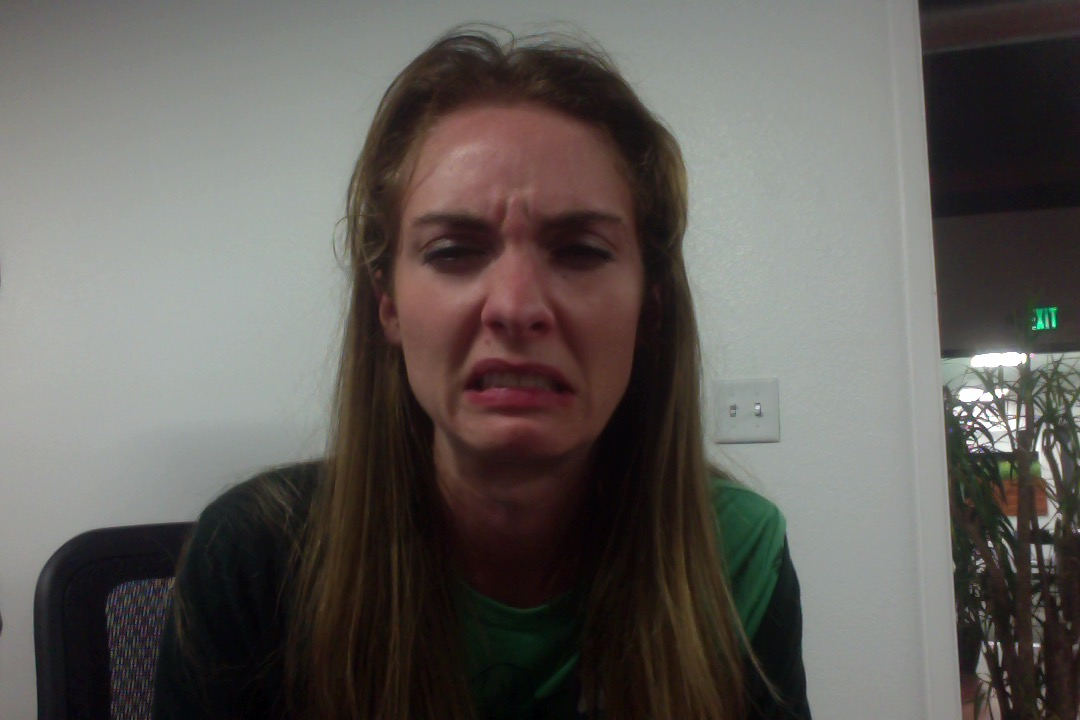
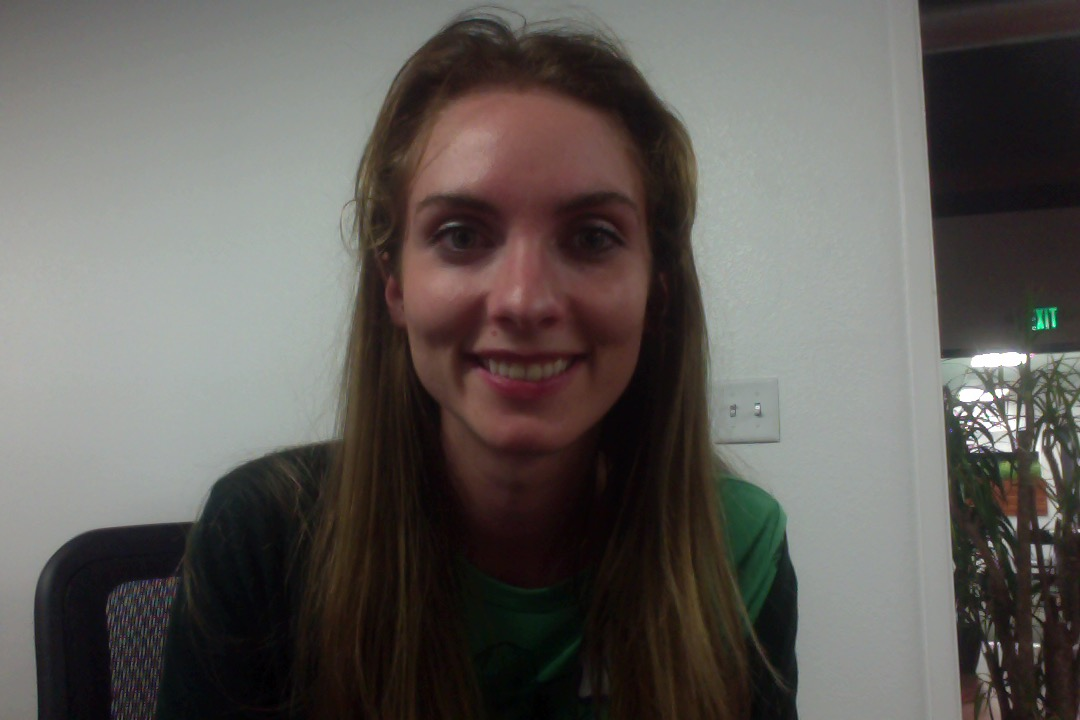
Working model

diff --git a/model/EmotionAPI.py b/model/EmotionAPI.py
@@ -1,0 +1,116 @@
+
+import time
+import requests
+import cv2
+import operator
+import numpy as np
+#import matplotlib.pyplot as plt
+from PIL import Image
+from scipy.misc import toimage
+from os.path import expanduser
+
+
+
+
+def processRequest(json, data, headers, params):
+    """
+    Helper function to process the request to Project Oxford
+
+    Parameters:
+    json: Used when processing images from its URL. See API Documentation
+    data: Used when processing image read from disk. See API Documentation
+    headers: Used to pass the key information and the data type request
+    """
+
+    _url = 'https://westus.api.cognitive.microsoft.com/emotion/v1.0/recognize'
+    _key = '9a2f9f6e4c694c72aa1bd6ea84ba5a87'
+    _maxNumRetries = 10
+
+    retries = 0
+    result = None
+
+    while True:
+
+        response = requests.request('post', _url, json=json, data=data, headers=headers, params=params)
+
+        if response.status_code == 429:
+
+            print("Message: %s" % (response.json()['error']['message']))
+
+            if retries <= _maxNumRetries:
+                time.sleep(1)
+                retries += 1
+                continue
+            else:
+                print('Error: failed after retrying!')
+                break
+
+        elif response.status_code == 200 or response.status_code == 201:
+
+            if 'content-length' in response.headers and int(response.headers['content-length']) == 0:
+                result = None
+            elif 'content-type' in response.headers and isinstance(response.headers['content-type'], str):
+                if 'application/json' in response.headers['content-type'].lower():
+                    result = response.json() if response.content else None
+                elif 'image' in response.headers['content-type'].lower():
+                    result = response.content
+        else:
+            print("Error code: %d" % (response.status_code))
+            print("Message: %s" % (response.json()['error']['message']))
+
+        break
+
+    return result
+
+
+def renderResultOnImage(result, img):
+    """Display the obtained results onto the input image"""
+
+    for currFace in result:
+        faceRectangle = currFace['faceRectangle']
+        cv2.rectangle(img, (faceRectangle['left'], faceRectangle['top']),
+                      (faceRectangle['left'] + faceRectangle['width'], faceRectangle['top'] + faceRectangle['height']),
+                      color=(255, 0, 0), thickness=5)
+
+    for currFace in result:
+        faceRectangle = currFace['faceRectangle']
+        currEmotion = max(currFace['scores'].items(), key=operator.itemgetter(1))[0]
+
+        textToWrite = "%s" % (currEmotion)
+        cv2.putText(img, textToWrite, (faceRectangle['left'], faceRectangle['top'] - 10), cv2.FONT_HERSHEY_SIMPLEX, 0.5,
+                    (255, 0, 0), 1)
+
+
+# Load raw image file into memory
+def runthisfile():
+    pathToFileInDisk = r'test.jpg'
+    with open( pathToFileInDisk, 'rb' ) as f:
+        data = f.read()
+
+    _url = 'https://westus.api.cognitive.microsoft.com/emotion/v1.0/recognize'
+    _key = '9a2f9f6e4c694c72aa1bd6ea84ba5a87'
+    _maxNumRetries = 10
+    headers = dict()
+    headers['Ocp-Apim-Subscription-Key'] = _key
+    headers['Content-Type'] = 'application/octet-stream'
+
+    json = None
+    params = None
+
+    result = processRequest( json, data, headers, params )
+
+    if result is not None:
+        for currFace in result:
+            currEmotion = max(currFace['scores'].items(), key=operator.itemgetter(1))[0]
+        print(currEmotion)
+
+def main():
+    while True:
+        runthisfile()
+        time.sleep(5)
+
+
+
+
+if __name__ == '__main__':
+    main()

diff --git a/model/model.py b/model/model.py
@@ -46,14 +46,14 @@ class Model:
             with open("prediction.txt", "w") as my_file:
                 my_file.write(final_prediction)
 
-            print("Writing prediction")
+            #print("Writing prediction")
+            print("Current emotion: %s" % final_prediction)
 
 
 def main():
     model = Model()
     while True:
         model.predict()
-        print("Ran")
         time.sleep(1)
 
 
